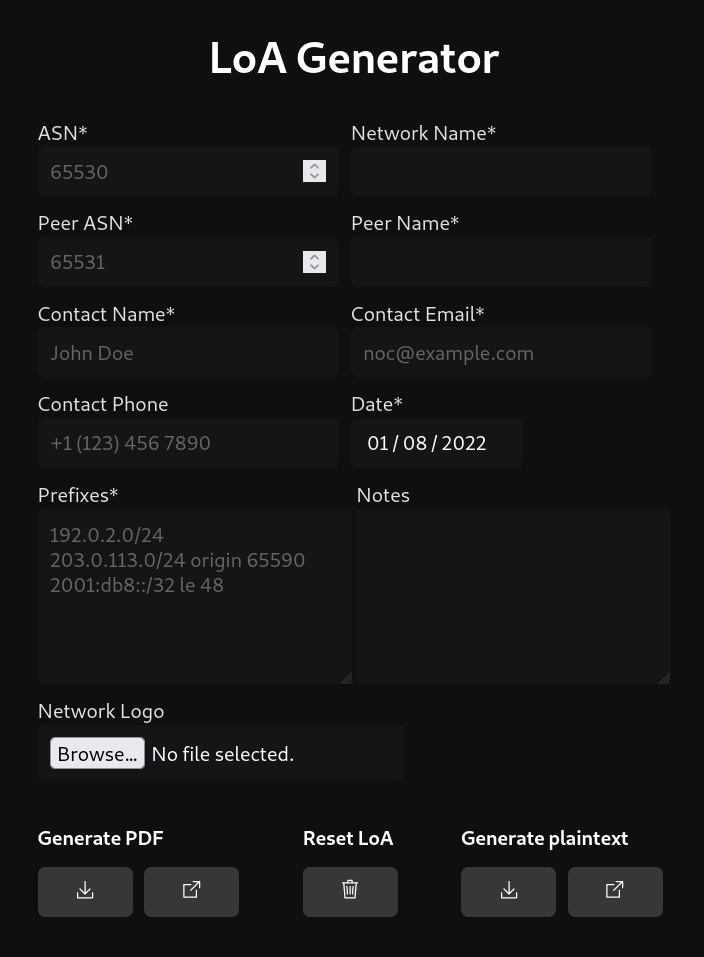
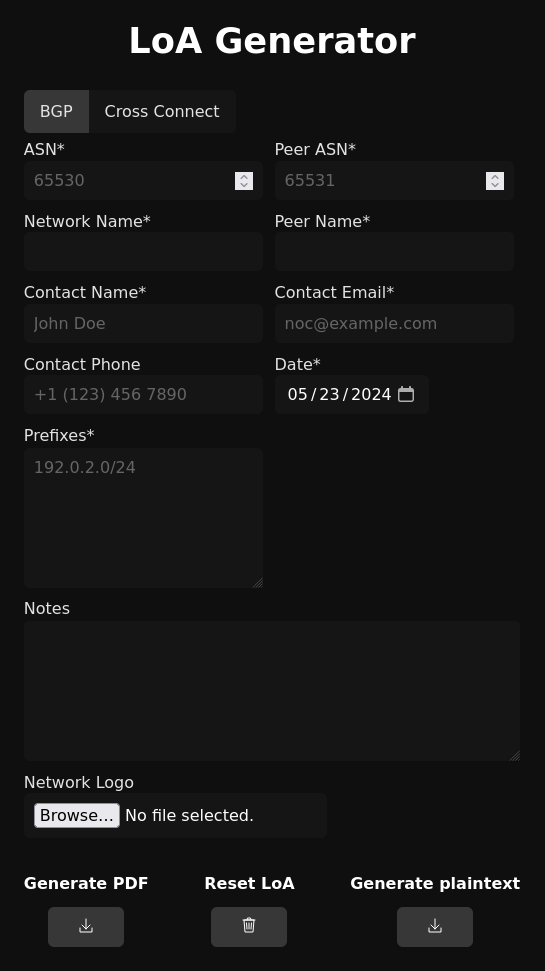
chore: add xc mode to readme and screenshot

diff --git a/README.md b/README.md
@@ -1,38 +1,5 @@
-# create-svelte
+# LoA Generator
 
-Everything you need to build a Svelte project, powered by [`create-svelte`](https://github.com/sveltejs/kit/tree/master/packages/create-svelte).
+Quickly generate LoAs (letters of authorization) for BGP announcements and cross connects in your browser as plaintext or a PDF.
 
-## Creating a project
-
-If you're seeing this, you've probably already done this step. Congrats!
-
-```bash
-# create a new project in the current directory
-npm create svelte@latest
-
-# create a new project in my-app
-npm create svelte@latest my-app
-```
-
-## Developing
-
-Once you've created a project and installed dependencies with `npm install` (or `pnpm install` or `yarn`), start a development server:
-
-```bash
-npm run dev
-
-# or start the server and open the app in a new browser tab
-npm run dev -- --open
-```
-
-## Building
-
-To create a production version of your app:
-
-```bash
-npm run build
-```
-
-You can preview the production build with `npm run preview`.
-
-> To deploy your app, you may need to install an [adapter](https://kit.svelte.dev/docs/adapters) for your target environment.
+<img style="width: 500px" alt="Screenshot" src="https://raw.githubusercontent.com/natesales/loa-generator/main/screenshot.png"></img>
